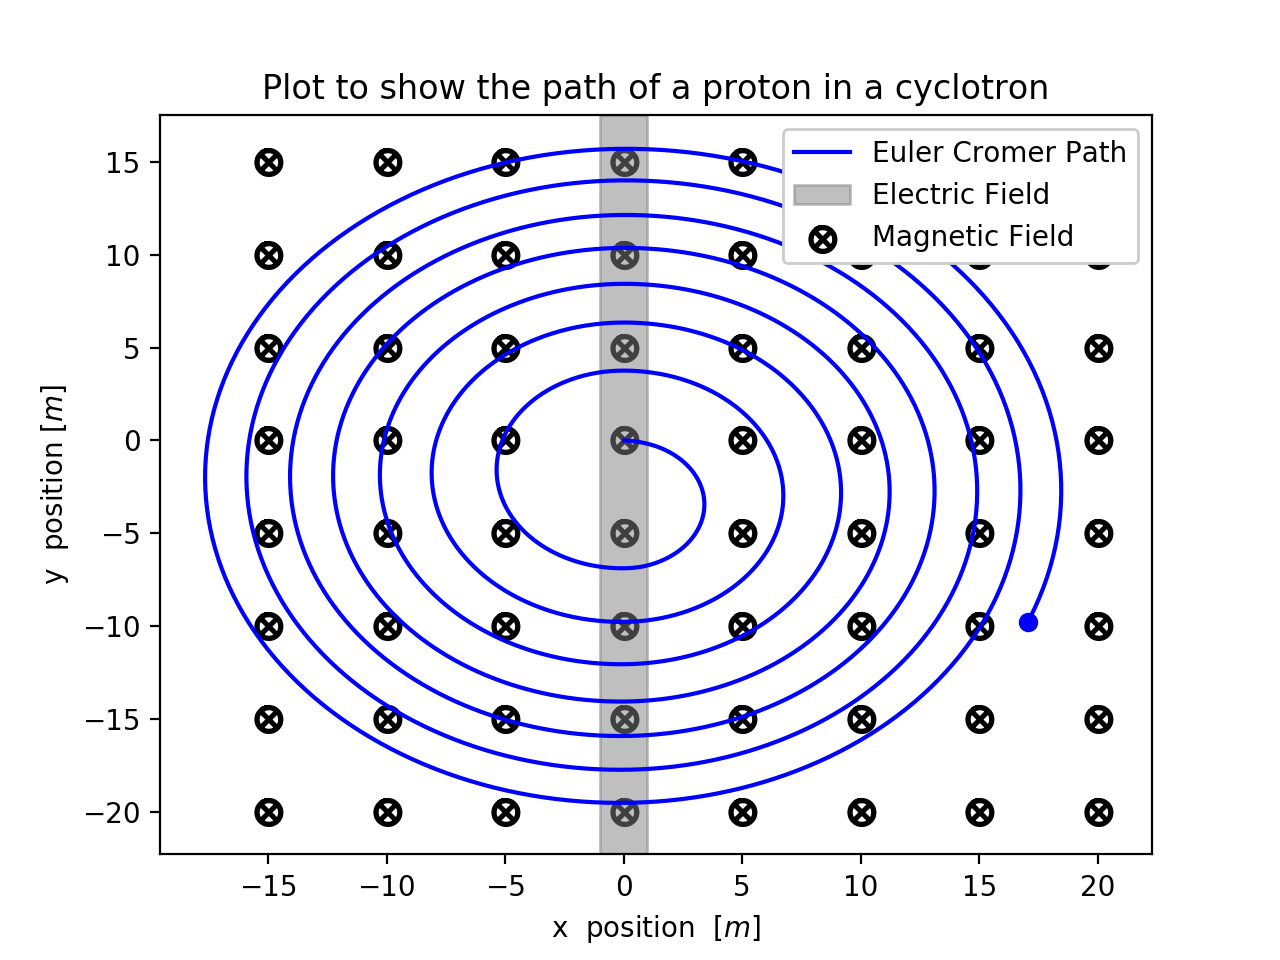
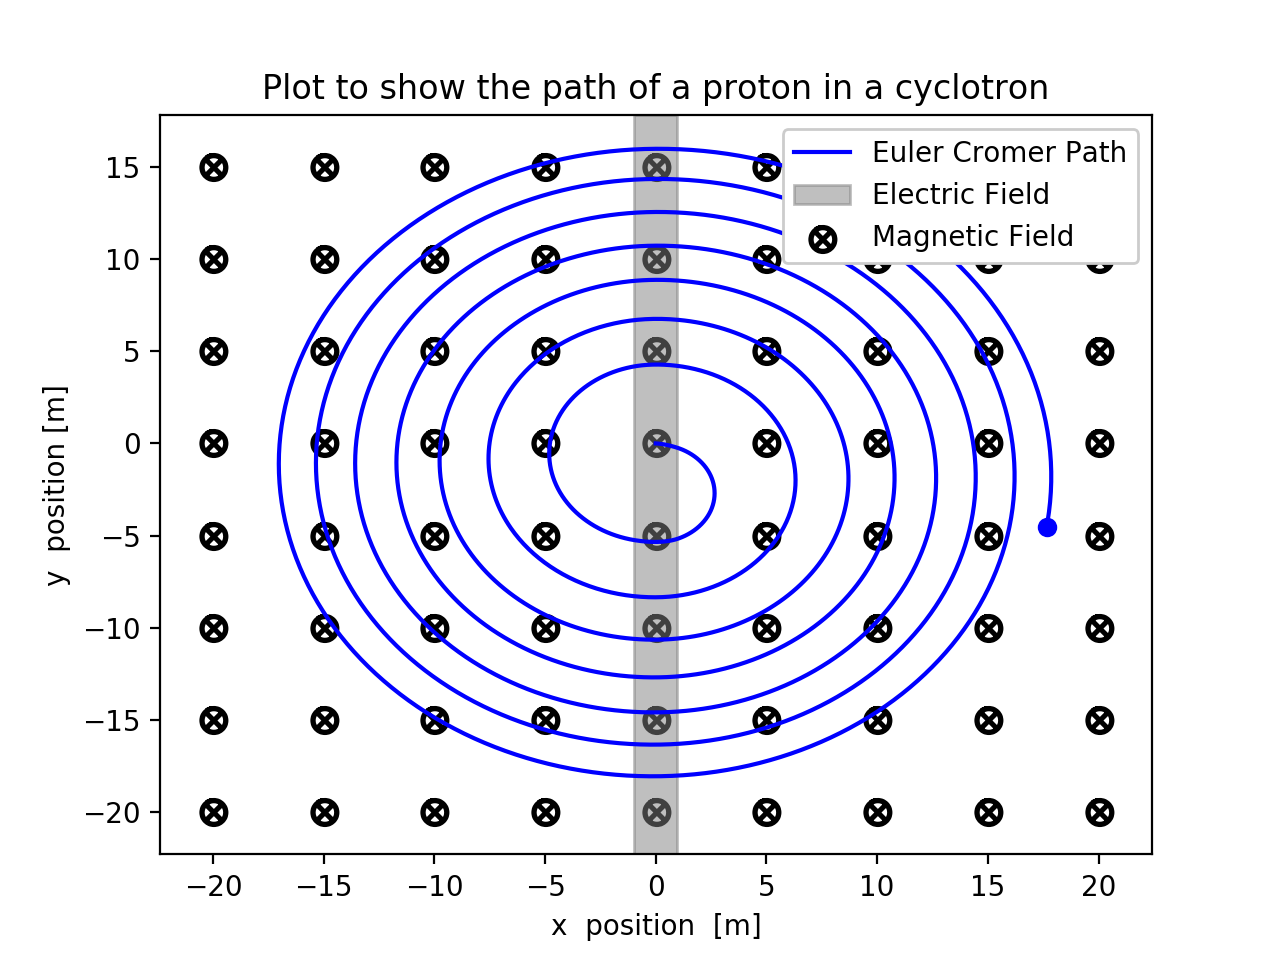
Updated plots
Inital proton now stars at rest in the centre of the magnetic field

diff --git a/Project/main.py b/Project/main.py
@@ -7,7 +7,7 @@ import scipy.constants as const
 import matplotlib.pyplot as plt
 import copy
 
-proton = ChargedParticle('proton-1', const.m_p, const.e, [0,0,0], [3000,0,0])
+proton = ChargedParticle('proton-1', const.m_p, const.e, [0,0,0], [0,0,0])
 field = EMField([0.1,0,0], [0,0,1.6*10**(-5)])
 
 time, deltaT, duration = 0, 10**(-5), 0.03
@@ -27,16 +27,18 @@ while time <= duration:
     electricField.append(temp_field)
 log.logger.info('simulation finished')
 
+log.logger.info("{0}'s final linear speed: {1} m/s".format(proton.name,int(proton.magnitude(proton.velocity))))
+
 log.logger.info('creating plots')
 x, y = [i[0] for i in Data], [i[1] for i in Data]
 final = [x[-1], y[-1]]
-magneticX, magneticY = np.meshgrid(list(range(-15,21,5)), list(range(-20,16,5)))
+magneticX, magneticY = np.meshgrid(list(range(-20,21,5)), list(range(-20,16,5)))
 
 plt.figure('Cyclotron')
 plt.plot(x,y,color='blue',label="Euler Cromer Path")
 plt.scatter(final[0],final[1],color='blue',marker='o')
-plt.xlabel(r'x  position  [$m$]')
-plt.ylabel(r'y  position [$m$]')
+plt.xlabel(r'x  position  [m]')
+plt.ylabel(r'y  position [m]')
 plt.title('Plot to show the path of a proton in a cyclotron')
 plt.axvspan(-0.98,0.98,alpha=0.5, color='grey',label='Electric Field')
 plt.scatter(magneticX,magneticY,marker=r'$\bigotimes$',s=95,color='black',label='Magnetic Field')
